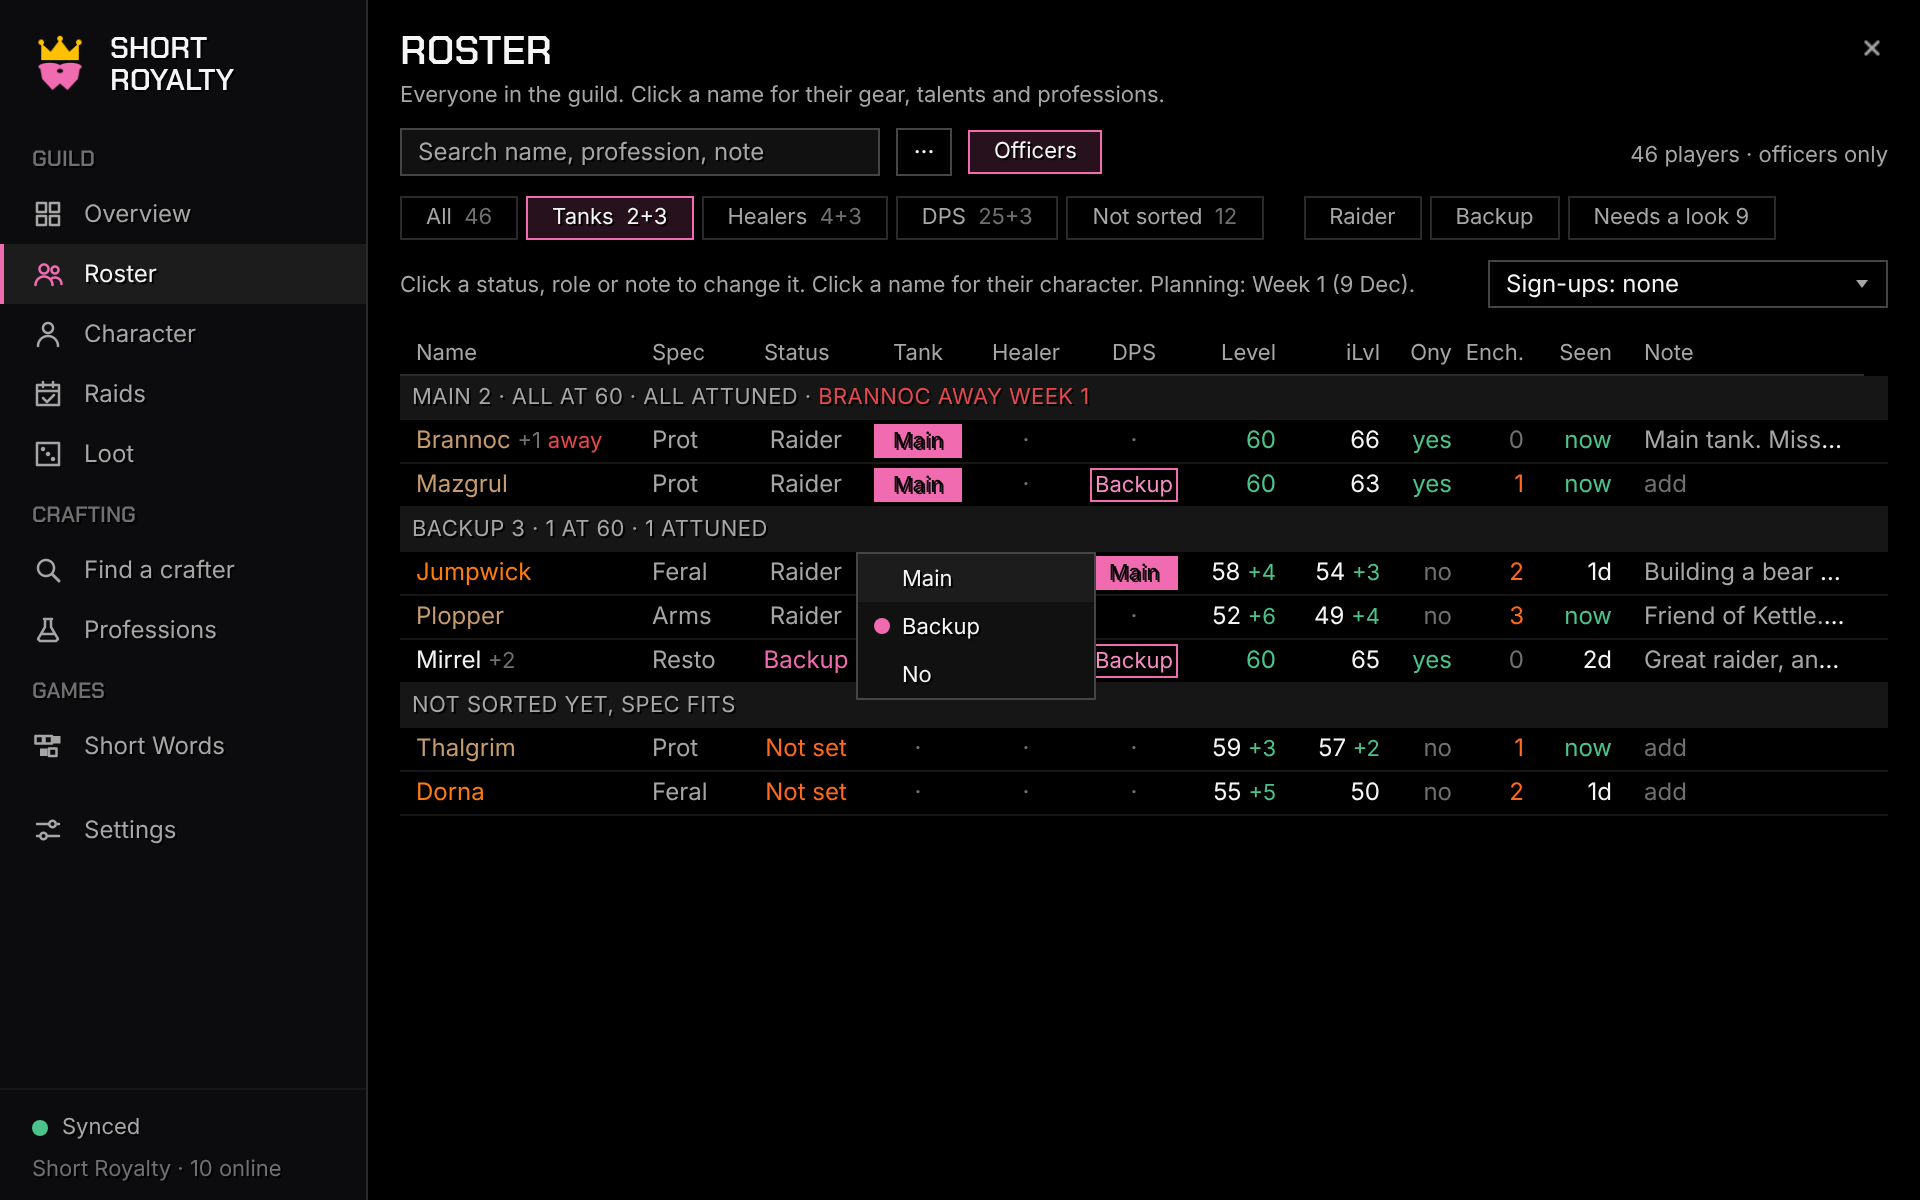
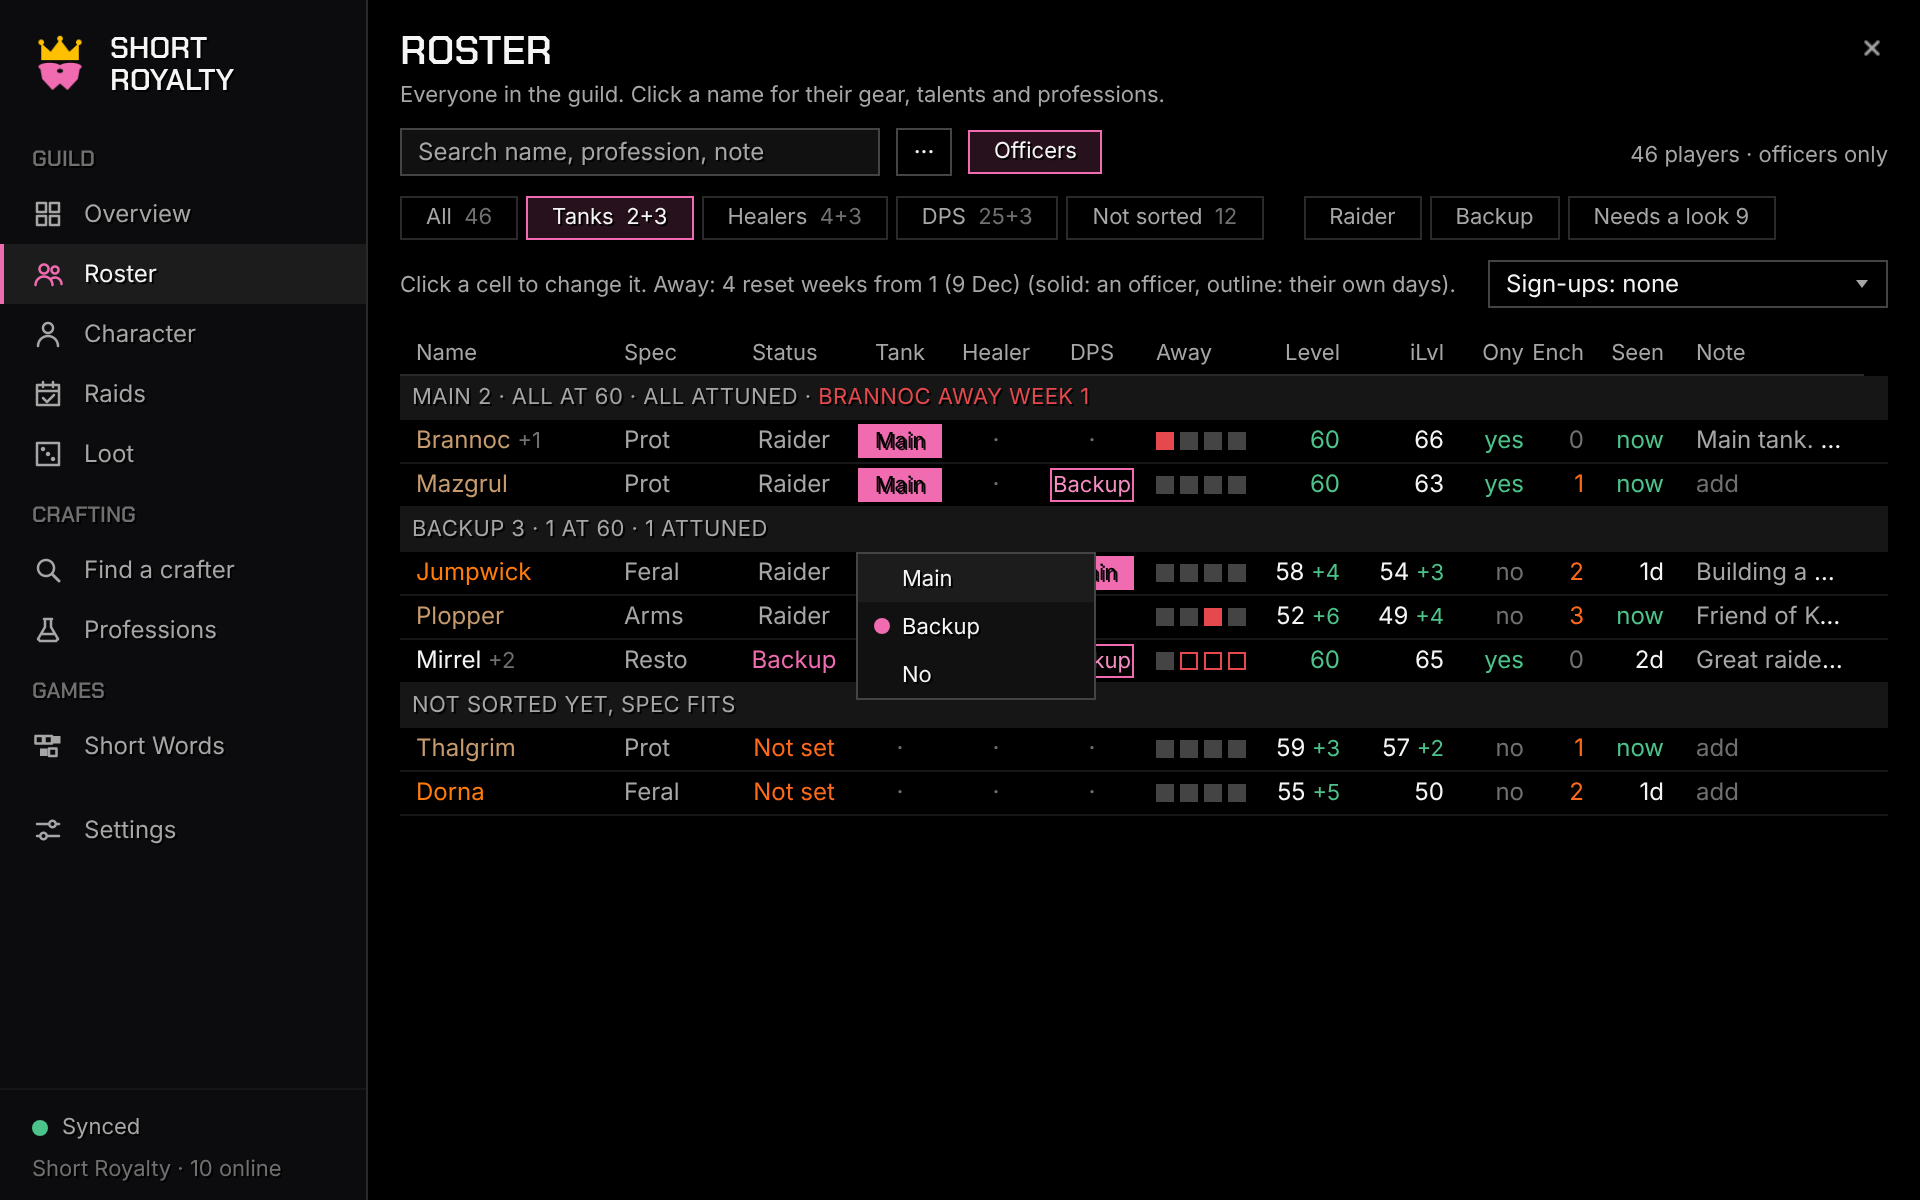
v0.13.0 (not released): Away as a column of week squares in the planner (officer-set and the player's own days); Alt of only on the Character page
Claude-Session: https://claude.ai/code/session_01A7mubGdPYGXe41A4ZcDyrF

diff --git a/preview/index.html b/preview/index.html
@@ -546,21 +546,27 @@ function rosterPlanner() {
   const filter = S.planRole || "T";
   const roleCell = (r, k) => {
     const t = r[3][k];
-    if (t === "m") return `<span style="display:inline-block;width:44px;text-align:center;background:var(--accent);color:var(--onAccent);font-size:11px;line-height:17px">Main</span>`;
-    if (t === "b") return `<span style="display:inline-block;width:44px;text-align:center;border:1px solid var(--accent);color:var(--accentLit);font-size:11px;line-height:15px;box-sizing:border-box">Backup</span>`;
-    return `<span class="faint" style="display:inline-block;width:44px;text-align:center">·</span>`;
+    if (t === "m") return `<span style="display:inline-block;width:42px;text-align:center;background:var(--accent);color:var(--onAccent);font-size:11px;line-height:17px">Main</span>`;
+    if (t === "b") return `<span style="display:inline-block;width:42px;text-align:center;border:1px solid var(--accent);color:var(--accentLit);font-size:11px;line-height:15px;box-sizing:border-box">Backup</span>`;
+    return `<span class="faint" style="display:inline-block;width:42px;text-align:center">·</span>`;
   };
   // Column widths as built (UI/RosterTab.lua PLAN_COLUMNS).
-  const W = { n: 118, sp: 56, st: 58, T: 54, H: 54, D: 54, l: 52, i: 52, a: 36, e: 36, seen: 44 };
+  const W = { n: 104, sp: 64, st: 58, T: 48, H: 48, D: 48, wk: 56, l: 52, i: 52, a: 40, e: 30, seen: 40 };
+  // Availability, next four reset weeks: [officer-set, own days] per week (made up).
+  const WK = { Brannoc: [[1, 0], [0, 0], [0, 0], [0, 0]], Mirrel: [[0, 0], [0, 2], [0, 2], [0, 2]], Plopper: [[0, 0], [0, 0], [1, 0], [0, 0]],
+    Procella: [[0, 0], [0, 7], [0, 0], [0, 0]], Merrin: [[0, 0], [0, 0], [0, 0], [1, 0]] };
+  const squares = (name) => `<span style="display:inline-flex;gap:3px;vertical-align:middle">${(WK[name] || [[0, 0], [0, 0], [0, 0], [0, 0]]).map(([o, d]) =>
+    `<i style="display:inline-block;width:9px;height:9px;box-sizing:border-box;${o ? "background:var(--bad);border:1px solid var(--bad)" : d ? "border:1px solid var(--bad)" : "background:var(--lineStrong)"}"></i>`).join("")}</span>`;
   const NW = 744 - Object.values(W).reduce((a, b) => a + b, 0) - 12;
-  const cell = (w, html, r, pad) => `<span class="cell ${r ? "r" : ""}" style="width:${w}px;${pad === 0 ? "padding:0;text-align:center" : ""}">${html}</span>`;
+  const cell = (w, html, r, pad) => `<span class="cell ${r ? "r" : ""}" style="width:${w}px;${pad === 0 ? "padding:0;text-align:center" : pad === 1 ? "overflow:visible" : ""}">${html}</span>`;
   const ILG = { Jumpwick: 3, Plopper: 4, Procella: 2, Thalgrim: 2 };
   const row = (r) => {
-    const extra = (r[13] ? ` <span class="faint small">+${r[13]}</span>` : "") + (r[12] ? ' <span class="bad small">away</span>' : "");
+    const extra = r[13] ? ` <span class="faint small">+${r[13]}</span>` : "";
     const cells = [cell(W.n, cls(r[0]) + extra),
       cell(W.sp, `<span class="dim">${r[1]}</span>`),
       cell(W.st, r[2] ? `<span class="${r[2] === "Raider" ? "dim" : "acc"}">${r[2]}</span>` : `<span class="spark">Not set</span>`, 0, 0),
       cell(W.T, roleCell(r, "T"), 0, 0), cell(W.H, roleCell(r, "H"), 0, 0), cell(W.D, roleCell(r, "D"), 0, 0),
+      cell(W.wk, squares(r[0].name), 0, 1),
       cell(W.l, r[4] === 60 ? `<span class="good">60</span>` : `${r[4]}${r[5] ? ` <span class="good small">+${r[5]}</span>` : ""}`, 1),
       cell(W.i, `${r[6]}${ILG[r[0].name] ? ` <span class="good small">+${ILG[r[0].name]}</span>` : ""}`, 1),
       cell(W.a, r[7] ? `<span class="good">yes</span>` : `<span class="faint">no</span>`, 1),
@@ -582,13 +588,13 @@ function rosterPlanner() {
       + sep(line("BACKUP", backs)) + backs.map(row).join("")
       + sep("NOT SORTED YET, SPEC FITS") + P.filter((r) => !r[2] && r[15] === filter).map(row).join("");
   }
-  const headCols = [["n", "Name"], ["sp", "Spec"], ["st", "Status"], ["T", "Tank"], ["H", "Healer"], ["D", "DPS"], ["l", "Level", 1], ["i", "iLvl", 1], ["a", "Ony", 1], ["e", "Ench.", 1], ["seen", "Seen", 1]];
+  const headCols = [["n", "Name"], ["sp", "Spec"], ["st", "Status"], ["T", "Tank"], ["H", "Healer"], ["D", "DPS"], ["wk", "Away"], ["l", "Level", 1], ["i", "iLvl", 1], ["a", "Ony", 1], ["e", "Ench", 1], ["seen", "Seen", 1]];
   const head = `<div class="lhead">${headCols.map(([k, t, r]) => `<span class="${r ? "r" : ""}" style="width:${W[k]}px;${"THD".includes(k) && k.length === 1 ? "justify-content:center" : ""}">${t}</span>`).join("")}<span style="width:${NW}px">Note</span></div>`;
   const chips = [["A", "All", 46], ["T", "Tanks", "2+3"], ["H", "Healers", "4+3"], ["D", "DPS", "25+3"], ["N", "Not sorted", 12]]
     .map(([k, t, n]) => `<span class="chip ${filter === k ? "on" : ""}" style="white-space:nowrap">${t}&nbsp;&nbsp;<span class="${filter === k ? "" : "faint"}">${n}</span></span>`).join("");
   const summary = filter === "A"
     ? "46 players  ·  31 at 60 (6 this week)  ·  8 at 55-59  ·  22 attuned to Onyxia  ·  11 missing enchants  ·  5 without the addon"
-    : "Click a status, role or note to change it. Click a name for their character. Planning: Week 1 (9 Dec).";
+    : "Click a cell to change it.  Away: 4 reset weeks from 1 (9 Dec) (solid: an officer, outline: their own days).";
   const top = `<div class="search abs" style="left:0;top:0;width:240px"><input placeholder="Search name, profession, note" value=""></div>
     <div class="menu abs" style="left:248px;top:0;width:28px">${btn("···", "", 'style="padding:0;width:28px;justify-content:center"')}</div>
     <span class="chip on" style="position:absolute;left:284px;top:1px">Officers</span>
@@ -641,17 +647,16 @@ function offBlock(w) {
   // As built (UI/CharacterTab.lua): read-only rows; changes happen in Roster → Officers.
   const r = (l, v, tone) => `<div style="display:flex;height:22px;align-items:center"><span class="dim" style="flex:1">${l}</span><span class="${tone || ""}">${v}</span></div>`;
   return `<div class="block"><div class="bhead"><span class="h display">Officers</span></div>
-    ${r("Status", "Backup", "acc")}${r("Tank", "Backup")}${r("Healer", "Main", "acc")}${r("DPS", "Backup")}
+    ${r("Status", "Backup", "acc")}${r("Tank", "Backup")}${r("Healer", "Main", "acc")}${r("DPS", "Backup")}${r("Away", "Week 2 (16 Dec)", "bad")}
     <div class="small dim" style="margin-top:4px">Attendance (30 days): no recorded raids yet</div>
     <div class="small" style="margin-top:6px;line-height:1.35"><span class="dim">Pocus:</span> Great raider, plays any role. Can't commit to a schedule: ask on the day.</div>
     <div class="small" style="margin-top:4px;line-height:1.35"><span class="dim">Nura:</span> Said yes to week 1 as healer.</div>
     <div class="small faint" style="margin-top:6px">Change these in Roster → Officers (click a cell).</div></div>`;
 }
-// The officers' strip, top right of the Character page: away weeks and Alt of.
+// The officers' strip, top right of the Character page: Alt of.
 function offStrip() {
   return `<div class="abs" style="right:0;top:34px;width:330px">
-    <div style="display:flex;gap:4px;align-items:center"><span class="dim small" style="margin-right:6px">Away (reset week)</span>${[1, 2, 3, 4].map((w) => `<span class="chip ${w === 2 ? "on" : ""}">${w}</span>`).join("")}</div>
-    <div style="display:flex;gap:8px;align-items:center;margin-top:4px"><span class="dim small">Alt of</span><span class="menu" style="position:relative;width:200px">${btn("Not an alt (or linked by the addon)").replace("</span>", '<i class="arrow"></i></span>')}</span></div></div>`;
+    <div style="display:flex;gap:8px;align-items:center;justify-content:flex-end"><span class="dim small">Alt of</span><span class="menu" style="position:relative;width:200px">${btn("Not an alt (or linked by the addon)").replace("</span>", '<i class="arrow"></i></span>')}</span></div></div>`;
 }
 
 function character() {

diff --git a/README.md b/README.md
@@ -99,11 +99,11 @@ Onyxia's Lair, Forever's first wave) to see who's attuned:
 <p align="center"><img src="docs/images/roster-planner-all.png" alt="Roster planner: one row per player with status, Tank/Healer/DPS, level, item level, attunement, enchants, data age and notes" width="100%"></p>
 
 - **Chips with counts**: All, **Tanks 2+3** (mains + backups), Healers, DPS, **Not sorted** (no status or roles yet: the people to get to know), plus Raider, Backup and **Needs a look** (not 60, not attuned, missing enchants, no addon, or data a week old). "All" shows the whole guild in one line: players at 60 (and how many reached it this week), at 55-59, attuned to Onyxia, missing enchants, without the addon.
-- **Columns**: name (+2 = alts; "away" when they're away this reset week), spec, **Status** (Raider or Backup; not the guild rank), **Tank / Healer / DPS** (Main filled, Backup outlined), level and item level with what they gained in the last 7 days, Onyxia attunement, missing enchants, **Seen** (how old their data is; orange after a week), and **Note**. Click a column title to sort.
+- **Columns**: name (+2 = alts), spec, **Status** (Raider or Backup; not the guild rank), **Tank / Healer / DPS** (Main filled, Backup outlined), **Away** (one square per reset week, the next four: solid red = an officer marked them away, red outline = they marked away days themselves on the Calendar; click a square to mark the whole week), level and item level with what they gained in the last 7 days, Onyxia attunement, missing enchants, **Seen** (how old their data is; orange after a week), and **Note**. Click a column title to sort.
 - **Click a status or role cell** for a small menu (Main / Backup / No): no accidental changes. **Click a note cell** to read every officer's note (who wrote it and when) and write or remove your own. **Click a name** for their full Character page.
 - A role chip shows its **mains**, then its **backups**, then **unsorted players whose spec fits** (an unsorted Prot warrior under Tanks); each group's header says how many are 60 and attuned, and who's **away this reset week**.
 - **Sign-ups** (menu, optional): pick a raid and the Seen column shows who signed up for it.
-- The Character page gets an **Officers** section (status, roles, attendance, notes) and, top right, **Away** by reset week (week 1 = 9 Dec) and **Alt of**. Auto-fill on the Raids → Groups page puts Raiders and officer-set mains first.
+- The Character page gets an **Officers** section (status, roles, away weeks, attendance, notes) and **Alt of** at the top right. Auto-fill on the Raids → Groups page puts Raiders and officer-set mains first.
 - **Taller window** in the ··· menu for long lists.
 - Shared only between officers and raid leaders, by whisper: changes reach the others online within a minute, and the rest when they log in. Members never receive any of it.
 

diff --git a/TESTING.md b/TESTING.md
@@ -273,12 +273,14 @@ addon read.
     Backup. Click **Status**: Raider or Backup. Another officer on v0.13.0
     sees the same within a minute.
 69. [ ] **Tanks** chip: mains, then backups, then unsorted players with a
-    tanking spec. Mark someone away for this week (Character page, Away):
-    the Main header shows "NAME AWAY WEEK n" in red.
+    tanking spec. Click someone's first **Away** square: it turns solid red
+    and the Main header shows "NAME AWAY WEEK n". A player who marked a day
+    away themselves (Raids → Calendar) shows a red outline; hover explains.
 70. [ ] Click a **note** cell: write a note, Save my note. Another officer
     adds theirs: both show, with names and how long ago. Remove mine works.
-71. [ ] Click a **name**: their Character page has an **Officers** section;
-    **Alt of** links an alt (it disappears from the planner, "+1" on the main).
+71. [ ] Click a **name**: their Character page has an **Officers** section
+    (with Away weeks); **Alt of** links an alt (it disappears from the
+    planner, "+1" on the main).
 72. [ ] **Needs a look**, **Raider**, **Backup** filters; column titles sort;
     **Sign-ups** menu shows who signed up for a raid.
 73. [ ] ··· → **Taller window**: the window grows; the list shows more rows.

diff --git a/CLAUDE.md b/CLAUDE.md
@@ -60,9 +60,14 @@ bridged to the addon only by copy and paste.
     `Roster.CellItems`; note box `BuildNotes/OpenNotes/SaveMyNote`;
     `settings.planner` {role, status, needs}; `Roster.signupsFor` turns the
     Seen column into Signed). `W.Chip:SetText`, `W.PopMenu` are new widgets.
-  - `UI/CharacterTab.lua`: officers get an Officers section (`OfficerRows`,
-    also for players without data, in column B) and a strip top right
-    (Away chips for `WeeksOffered`, Alt of menu). `UI/MainFrame.lua`
+  - Away (owner: the first layout, numbered chips on the Character page,
+    was "quite bad"): planner column `weeks`, four squares per row
+    (`Roster.SQUARE`, `RP.Weeks(officerAway, selfAway, weeks)` → officer =
+    solid red, self = days the player marked away via `Absences` = red
+    outline; click → `Roster:ToggleWeek`, `Roster.WeekTip`).
+  - `UI/CharacterTab.lua`: officers get an Officers section (`OfficerRows`
+    with an Away row; also for players without data, in column B) and an
+    "Alt of" menu top right. `UI/MainFrame.lua`
     `TALL` 200, `TallH/SetTall` (`settings.window.tall`), ··· "Taller window".
   - `RaidGroups.AutoFill(L, raidKey, pct, plan)`: Raiders before Backups,
     officer-set mains for the signed-up role before backups.

diff --git a/CHANGELOG.md b/CHANGELOG.md
@@ -18,8 +18,11 @@ From the officers' feedback: one overview of the static raid roster.
   officer's note and write your own (each with its author and date); click a
   **name** for the Character page. Columns sort. Optional **Sign-ups** column
   for a raid.
-- Character page (officers): an **Officers** section, and **Away** by reset
-  week (week 1 = 9 Dec) and **Alt of** at the top right.
+- **Away** column: one square per reset week, the next four (week 1 = 9
+  Dec). Solid red = an officer marked them away, red outline = they marked
+  away days themselves on the Calendar. Click a square to mark the week.
+- Character page (officers): an **Officers** section (status, roles, away
+  weeks, attendance, notes) and **Alt of** at the top right.
 - **Taller window** in the Roster's ··· menu.
 - Raids → Groups **Auto-fill** puts Raiders and officer-set mains first.
 - Officer roles from v0.10.1 count as mains; the old single officer note
